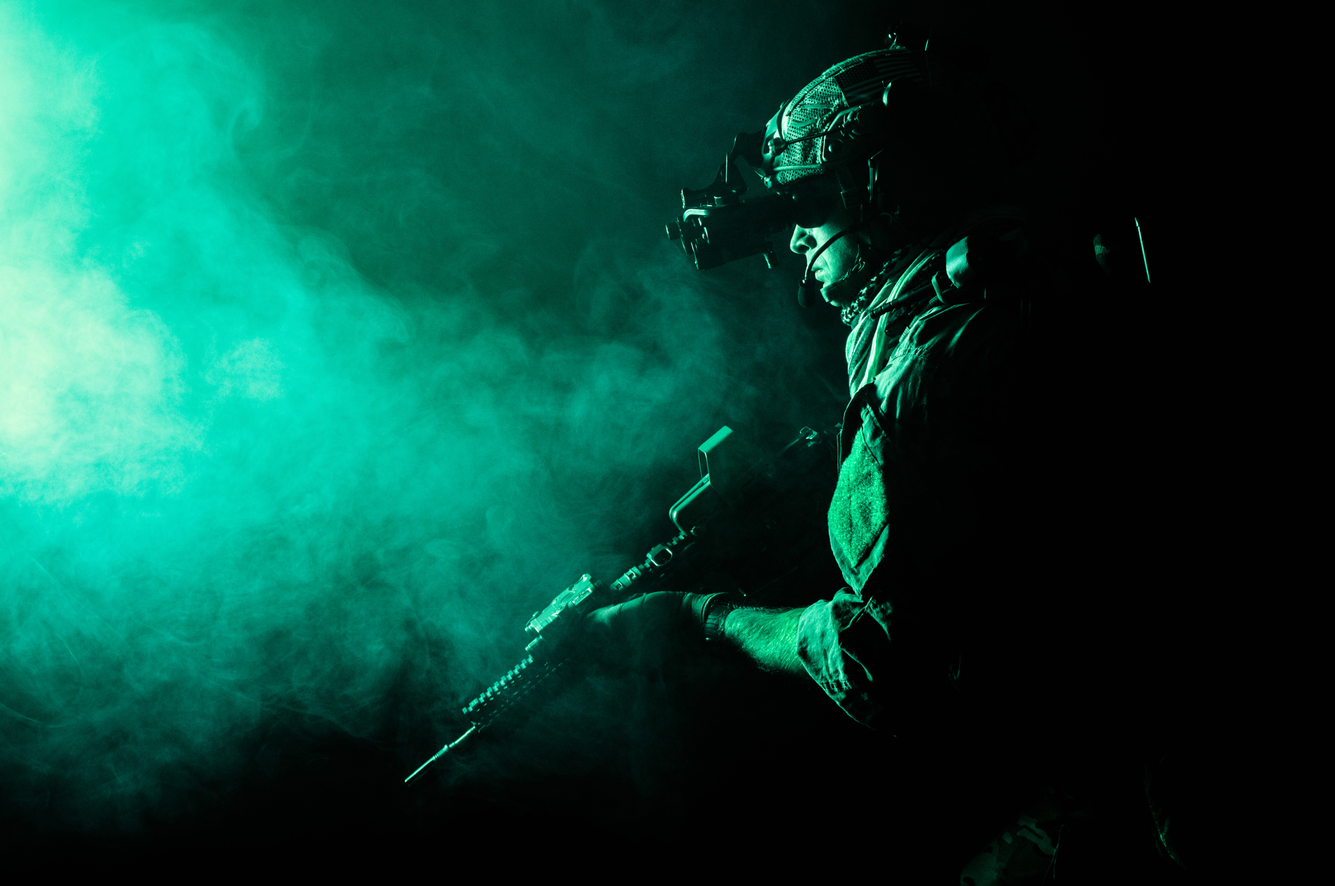
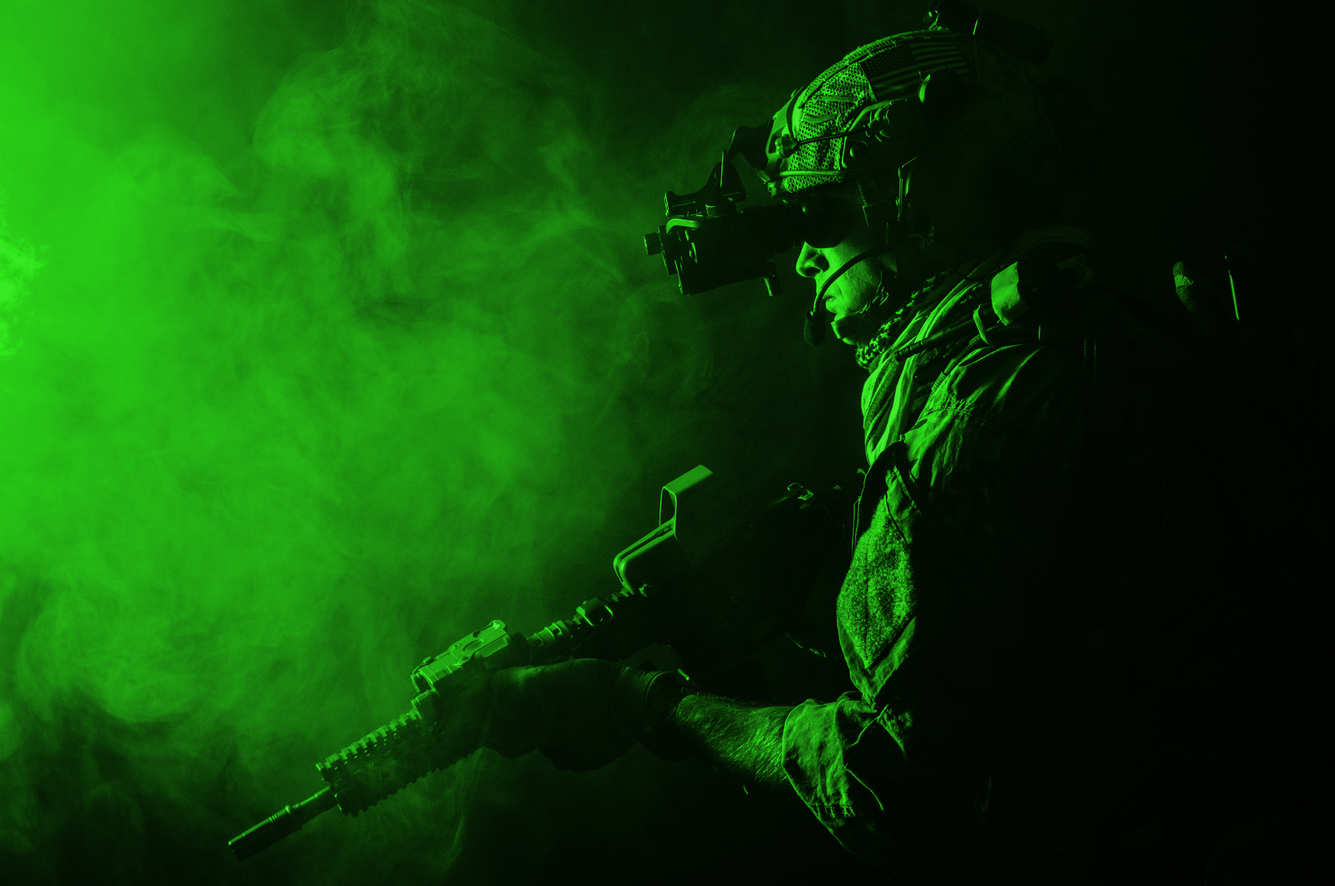
new header, trnslation add

diff --git a/src/app/pages/Home/Home.jsx b/src/app/pages/Home/Home.jsx
@@ -23,7 +23,7 @@ export const Home = ({ isNight }) => {
             </div>
             <div className={isNight ? 'content-wrapper-n' : 'content-wrapper'}>
                 <section>
-                    <Title isNight={isNight} title='Poznaj nas' />
+                    <Title isNight={isNight} title={t('home.meetUs')} />
                     <div className='about-us'>
                         <span>{t('home.about')}</span>
                         <Quote isNight={isNight} />
@@ -33,11 +33,22 @@ export const Home = ({ isNight }) => {
                 <CTA isNight={isNight} text={t('home.cta-1')} />
                 <Service isNight={isNight} />
             </div>
-            <SectionHome isNight={isNight} title={t("home.thermovision")} text1='Rozwój cyfrowych technik przetwarzania obrazu oraz metod detekcji ciepła, spowodował skokową poprawę urządzeń termowizyjnych. Początkowo ograniczona przez konieczność stosowania skomplikowanych układów chłodzenia i wydajnych układów zasilania w energię elektryczną, dziś – już w  wersjach miniaturowych -znajduje zastosowania w wielu odległych nieraz dziedzinach.' text2='Obecnie dostępne urządzenia termowizyjne są niezastąpione do szybkiej detekcji celu. Wraz z rozwojem technologii następuje ich miniaturyzacja przy zachowaniu odpowiedniej rozdzielczości matrycy, jej czułości i zapotrzebowaniu na prąd. Zachęcamy do zapoznania się „w terenie” z jakością obrazu, wstępnie wybranego urządzenia z naszego sklepu. Wierzymy, że obecnie prowadzone prace w kierunku połączenia z techniką noktowizyjną i cyfrową pozwolą zaoferować w nieodległej przyszłości jeszcze lepsze rozwiązania.' textIMG='Zwykle do właściwego doboru urządzenia nie wystarczy prosta ocena jego deklarowanych parametrów technicznych. Często urządzenia zbudowane z tych samych matryc (przez różnych producentów) dają zupełnie inne wrażenia optyczne.  Jakość uzyskiwanego obrazu wynika nie tylko z prostych parametrów i jakości zastosowanych podzespołów, które możemy sprawdzić w DTR (obiektyw, matryca, wyświetlacz), ale też z czynników nieoczywistych jak np. zastosowanego oprogramowania.' reverse={false} />
+            <SectionHome isNight={isNight}
+                title={t("home.thermovision")}
+                text1={t('home.thermovisionText-a')}
+                text2={t('home.thermovisionText-b')}
+                textIMG={t('home.thermovisionText-c')}
+                reverse={false} />
 
             <AdvantagesWrapper isNight={isNight} />
 
-            <SectionHome reverse={true} isNight={isNight} title={t("home.nightvision")} text1='Chęć i potrzeba widzenia po zmroku od zawsze inspirowała ludzi do poszukiwań nowych rozwiązań. Początkowo stosowane silne źródła światła widzialnego okazały się niewystarczające w zastosowaniach wymagających skrytego działania. W okresie II WŚ, wprowadzono do użycia pierwsze urządzenia umożliwiające widzenie nocne po zastosowaniu silnych emiterów światła niewidocznego dla ludzkiego oka.' textIMG='Początkowo duże, niewygodne (np. plecakowe) i wymagające dużej ilości energii elektrycznej (silne doświetlacze żarówkowe z filtrami IR) urządzenia, ewoluowały by obecnie osiągnąć kompaktowe (350gram) rozmiary, z czasem pracy na jednej baterii ponad 40h. Postęp techniczny w technice noktowizyjnej jest ogromny i dotyczy nie tylko samych wzmacniaczy światła, ale również elektroniki ich zasilającej, dostępnej jasnej optyki, lekkich materiałów konstrukcyjnych a także ergonomii oraz precyzji wykonania. Złożoność produktu powoduje, że większość osób ma duże problemy z oceną parametrów sprzętu i wyborem właściwego urządzenia do własnych zastosowań.' text2={'NextGen tworzą ludzie z pasją, którzy chętnie zrozumieją Twoje potrzeby, przeprowadzą Cię przez cały proces doboru urządzenia i zaproponują optymalne rozwiązanie cenowe. Wyjaśnimy różnice w parametrach technicznych i uczciwie opowiemy o zaletach i ograniczeniach z nich wynikających. Nie ma rozwiązań uniwersalnych, nadających się dla wszystkich, dlatego dbając o świadome decyzje naszych Klientów zachęcamy do testów porównawczych wybranych rozwiązań. Rozumiemy Wasze pasje i potrzeby. Nasze urządzenia są stosowane z powodzeniem przez myśliwych, wojskowych, policjantów, pracowników ochrony, strzelców sportowych, astrofotografów, oraz entuzjastów ASG.'} />
+            <SectionHome
+                reverse={true}
+                isNight={isNight}
+                title={t("home.nightvision")}
+                text1={t("home.nightvisionText-a")}
+                textIMG={t("home.nightvisionText-b")}
+                text2={t("home.nightvisionText-c")} />
         </>
 
     );

diff --git a/src/app/components/CTA/CTA.scss b/src/app/components/CTA/CTA.scss
@@ -9,13 +9,9 @@
     font-size: 30px;
     font-weight: bold;
     background-color:#fff;
-    background-image: linear-gradient(#08C3D5 2px, transparent 2px),
-    linear-gradient(90deg, #08C3D5 1px, transparent 1px),
-    linear-gradient(rgba(8, 195, 213, 0.3) 1px, transparent 1px),
-    linear-gradient(90deg, rgba(8, 195, 213, 0.3) 1px, transparent 1px);
-    background-size: 100px 100px, 100px 100px, 20px 20px, 20px 20px;
-    background-position:-2px -2px, -2px -2px, -1px -1px, -1px -1px;
     color: #000;
+    border-top: 1px solid #08C3D5;
+    border-bottom: 1px solid #08C3D5;
     
     .cta-buttons-wrapper {
       margin-top: 20px;
@@ -35,6 +31,7 @@
       text-transform: uppercase;
       display: inline-block;
       margin: 50px;
+      z-index: 1;
         &::after,
        &::before {
             content: '';
@@ -51,16 +48,16 @@
           right: 0;
           border-top-color: transparent;
           border-left-color: transparent;
-          border-bottom-color: #000;
-          border-right-color: #000;
+          border-bottom-color: #08C3D5;
+          border-right-color: #08C3D5;
         }
         &::before {
             top: 0;
           left: 0;
           border-bottom-color: transparent;
           border-right-color: transparent;
-          border-top-color: #000;
-          border-left-color: #000;
+          border-top-color: #08C3D5;
+          border-left-color: #08C3D5;
         }
         &:hover::after,
         &:hover::before {
@@ -76,33 +73,29 @@
           color: #000;
           text-decoration: none;
           position: relative;
-          background-color: rgba(255, 255, 255, 0.15);
         }
     }
   }
   .cta-container-n {
     color: #fff;
     background-color:#000;
-    background-image: linear-gradient(#23b213 2px, transparent 2px),
-    linear-gradient(90deg, #23b213 1px, transparent 1px),
-    linear-gradient(rgba(35,178,19,.3) 1px, transparent 1px),
-    linear-gradient(90deg, rgba(35,178,19,.3) 1px, transparent 1px);
-    background-size: 100px 100px, 100px 100px, 20px 20px, 20px 20px;
-    background-position:-2px -2px, -2px -2px, -1px -1px, -1px -1px;
+    border-top: 1px solid #23b213;
+    border-bottom: 1px solid #23b213;
     
     .cta-buttons-wrapper {
       button {
       color: #fff;
+      z-index: 1;
 
           &::after {
 
-          border-bottom-color: #fff;
-          border-right-color: #fff;
+          border-bottom-color: #23b213;
+          border-right-color: #23b213;
         }
         &::before {
 
-          border-top-color: #fff;
-          border-left-color: #fff;
+          border-top-color: #23b213;
+          border-left-color: #23b213;
         }
  
         }

diff --git a/src/app/components/SubpageHeader/SubpageHeader.scss b/src/app/components/SubpageHeader/SubpageHeader.scss
@@ -7,33 +7,35 @@
     h1 {
           color: #000;
           position: absolute;
-          margin-top: 100px;
+          margin-top: 120px;
           font-size: 60px;
           text-transform: uppercase;
           z-index: 0;
-    }
+          border-radius: 2rem;
+          padding: 0.4em;
+        }
     .background-green {
-        width: 100%;
+      width: 100%;
         height: 300px;
         background-color:#000;
-        background-image: linear-gradient(#23b213 2px, transparent 2px),
-        linear-gradient(90deg, #23b213 1px, transparent 1px),
-        linear-gradient(rgba(35,178,19,.3) 1px, transparent 1px),
-        linear-gradient(90deg, rgba(35,178,19,.3) 1px, transparent 1px);
-        background-size: 100px 100px, 100px 100px, 20px 20px, 20px 20px;
-        background-position:-2px -2px, -2px -2px, -1px -1px, -1px -1px;
+        font-size: 18px;
+        background-image: url("../../../assets/green-bcg.jpg");
+        background-repeat: no-repeat;
+        background-size: contain;
+        background-position: right;
+       
     }
     
     .background-blue {
       width: 100%;
       height: 300px;
-      background-color:#fff;
-      background-image: linear-gradient(#08C3D5 2px, transparent 2px),
-      linear-gradient(90deg, #08C3D5 1px, transparent 1px),
-      linear-gradient(rgba(35,178,19,.3) 1px, transparent 1px),
-      linear-gradient(90deg, rgba(35,178,19,.3) 1px, transparent 1px);
-      background-size: 100px 100px, 100px 100px, 20px 20px, 20px 20px;
-      background-position:-2px -2px, -2px -2px, -1px -1px, -1px -1px;
+      background-color:#FFF;
+      font-size: 18px;
+      background-image: url("../../../assets/blue-bcg.jpg");
+      background-repeat: no-repeat;
+      background-size: contain;
+      background-position: right;
+
     }
 }
 

diff --git a/src/app/pages/Rules/Rules.jsx b/src/app/pages/Rules/Rules.jsx
@@ -1,6 +1,6 @@
 import React from 'react';
-import bcgSubpage from '../../../assets/bcg-white.jpg';
-import bcgSubpageG from '../../../assets/bcg-green.jpg';
+// import bcgSubpage from '../../../assets/bcg-white.jpg';
+// import bcgSubpageG from '../../../assets/bcg-green.jpg';
 import './Rules.scss'
 
 export const Rules = ({ isNight }) => {
@@ -8,7 +8,7 @@ export const Rules = ({ isNight }) => {
     return (
         <div className={isNight ? 'products-container-n' : 'products-container'}>
             <div className='subpage-header'>
-                <img className='products-header-img' src={isNight ? bcgSubpageG : bcgSubpage} alt='background' />
+                {/* <img className='products-header-img' src={isNight ? bcgSubpageG : bcgSubpage} alt='background' /> */}
                 <h1>Regulamin</h1>
             </div>
             <div className={isNight ? 'rules-content-n' : 'rules-content'}>

diff --git a/src/app/components/Footer/Footer.jsx b/src/app/components/Footer/Footer.jsx
@@ -16,7 +16,7 @@ export const Footer = ({ isNight }) => {
 
         <div className={isNight ? 'footer-container-n' : 'footer-container'} >
             <div>
-                {t("footer.rights")} < a href='https://www.linkedin.com/in/ewa-gr%C4%85zka-789461161/' > egrazka</a >.
+                {t("footer.rights")} < a target="_blank" href='https://www.linkedin.com/in/ewa-gr%C4%85zka-789461161/' > egrazka</a >.
             </div>
             <div>
                 <Link
@@ -28,7 +28,7 @@ export const Footer = ({ isNight }) => {
                     to={{
                         pathname: "/rules",
                     }}
-                >Regulamin</Link>
+                >{t("home.rules")}</Link>
             </div>
             <div>
                 <div className='ico-container'>

diff --git a/src/app/components/Menu/Menu.jsx b/src/app/components/Menu/Menu.jsx
@@ -16,8 +16,8 @@ function Menu({ isNight }) {
 
                 <li className='menu-link' >
                     <Link
-                        style={{ color: location.pathname === "/" ? (isNight ? '#23b213' : '#08C3D5') : '' }}
-                        to={{ pathname: "/" }}
+                        style={{ color: location.pathname === "/nextgen" ? (isNight ? '#23b213' : '#08C3D5') : '' }}
+                        to={{ pathname: "/nextgen" }}
                     >{t('commons.links.home')}</Link>
                 </li>
 

diff --git a/src/app/components/Service/Service.jsx b/src/app/components/Service/Service.jsx
@@ -8,7 +8,7 @@ export const Service = ({ isNight }) => {
 
     return (
         <section>
-            <Title isNight={isNight} title='Serwis' />
+            <Title isNight={isNight} title={t('home.service.service')} />
             <p>{t('home.service.text-1')}</p>
             <p>{t('home.service.text-1a')}</p>
             <ul className={isNight ? 'service-list-n' : 'service-list'}>

diff --git a/src/App.js b/src/App.js
@@ -59,7 +59,7 @@ function App() {
       <ProgressBar isNight={isNight} scrollValue={scrollValue} />
 
       <Routes>
-        <Route path="/" element={<Home isNight={isNight} />} />
+        <Route path="/nextgen" element={<Home isNight={isNight} />} />
         <Route
           path="/products"
           element={<AllProductsWrapper isNight={isNight} />}

diff --git a/src/app/pages/Privacy/Privacy.jsx b/src/app/pages/Privacy/Privacy.jsx
@@ -1,6 +1,4 @@
 import React from 'react';
-import bcgSubpage from '../../../assets/bcg-white.jpg';
-import bcgSubpageG from '../../../assets/bcg-green.jpg';
 import { useTranslation } from 'react-i18next';
 import './Privacy.scss';
 import { SubpageHeader } from '../../components/SubpageHeader/SubpageHeader';

diff --git a/src/app/components/SubpageHeader/SubpageHeader.jsx b/src/app/components/SubpageHeader/SubpageHeader.jsx
@@ -8,6 +8,7 @@ export const SubpageHeader = ({ isNight, text }) => {
         <div className={isNight ? 'subpage-header-n' : 'subpage-header'}>
             <div className={isNight ? 'background-green' : 'background-blue'}></div>
             <h1>{text}</h1>
+
         </div>
     );
 };

diff --git a/src/app/components/Logo/Logo.jsx b/src/app/components/Logo/Logo.jsx
@@ -13,7 +13,7 @@ export const Logo = ({ isNight }) => {
 
     return (
 
-        <Link to={{ pathname: "/" }}>
+        <Link to={{ pathname: "/nextgen" }}>
             <img src={isNight ? logoW : logoB} className='header-logo' alt='logo nextgen' />
         </Link>
 

diff --git a/src/app/pages/FAQ/FAQ.jsx b/src/app/pages/FAQ/FAQ.jsx
@@ -1,7 +1,5 @@
 import React from 'react';
 import { useTranslation } from 'react-i18next';
-import bcgSubpage from '../../../assets/bcg-white.jpg';
-import bcgSubpageG from '../../../assets/bcg-green.jpg';
 import { Title } from '../../components/Title/Title';
 
 
